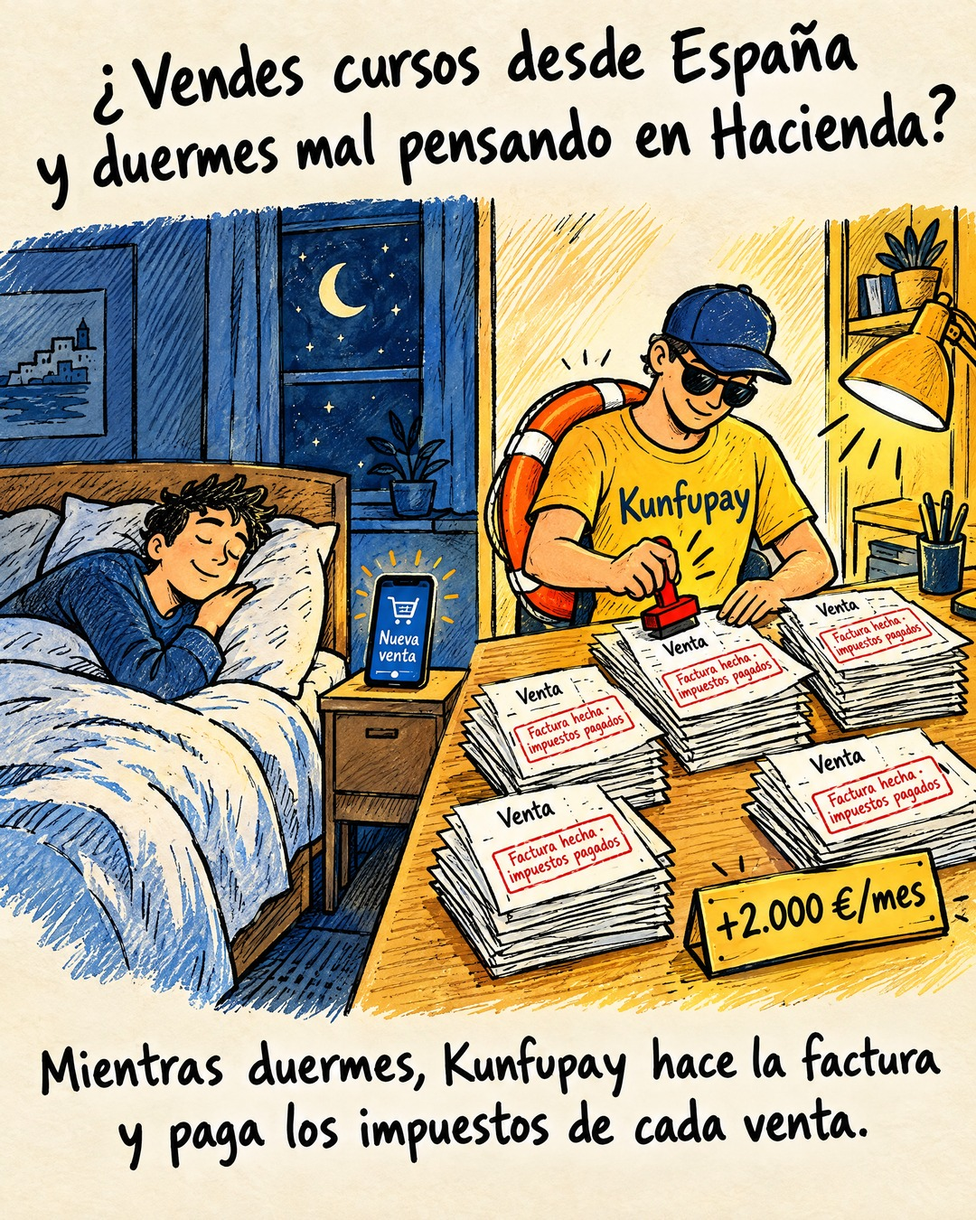
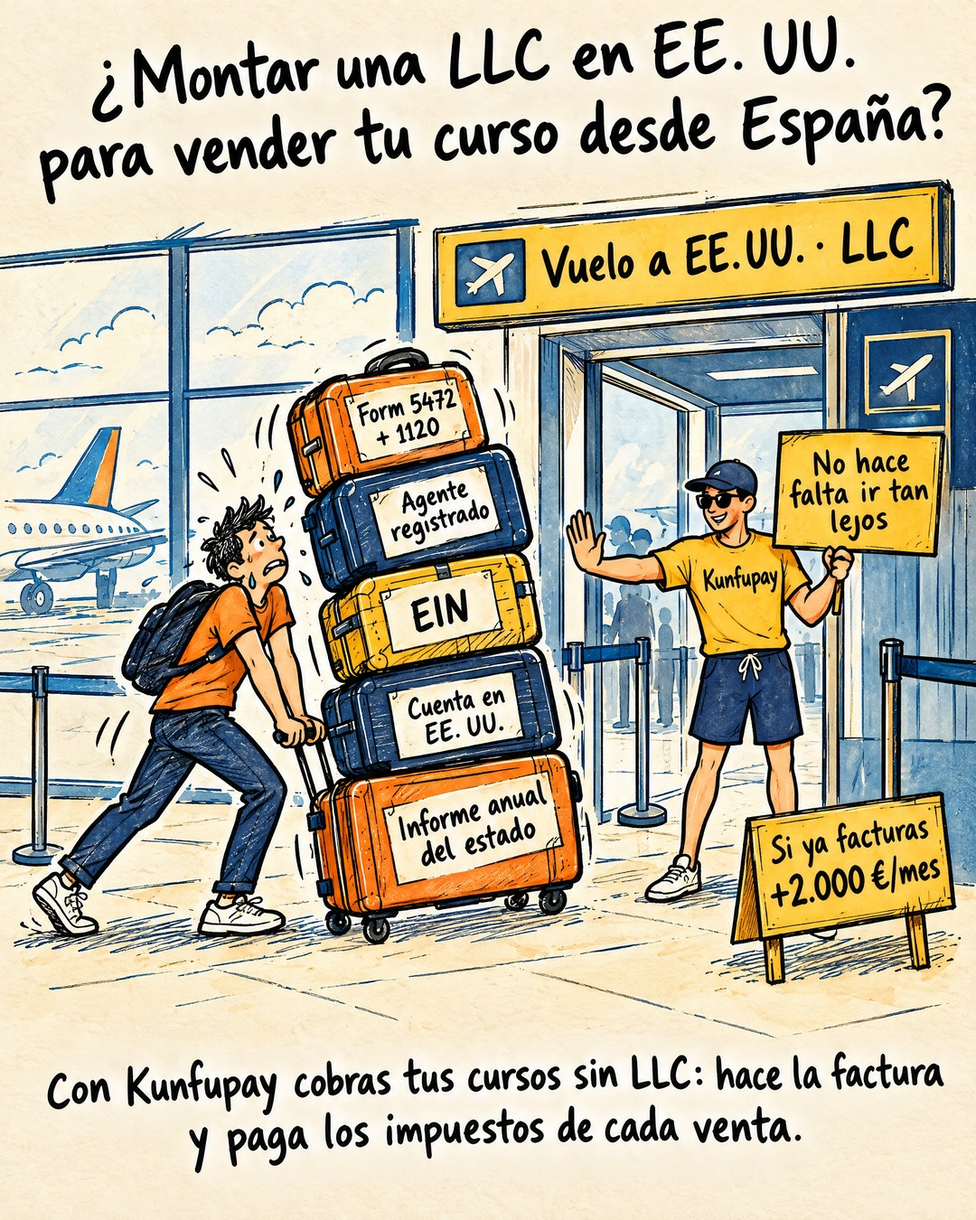
Tributaless V06: seis piezas nuevas y trading con texto completo
Se quedan la playa, la noche, la torta, el calendario de la LLC, la
pizarra de Hotmart y el reloj de arena. Se rehacen 1A (pizarra), 2A
(buzón), 3A (mochila), 4B (aeropuerto), R1 (videollamada) y R2 (pizarra
comparativa); 5A gana subtítulo y ficha. El sello en fotos se descarta.

Claude-Session: https://claude.ai/code/session_019ferXi2JGtSaS587CYiVAm

diff --git a/kunfupay/angulos/tributaless-copys.md b/kunfupay/angulos/tributaless-copys.md
@@ -1,27 +1,27 @@
-# Tributaless · anuncios V05 (13), copys y VSL
+# Tributaless · anuncios V06 (13), copys y VSL
 
 - **Fecha:** 06/10/2026
-- **Qué es:** 13 anuncios que filtran (formación online desde España, +2.000 €/mes) y en los que Kunfupay se ve haciendo algo: el socorrista de Kunfupay en las viñetas y el sello rojo «KUNFUPAY · Factura hecha · Impuestos de esta venta pagados» en las fotos. 5 títulos y 5 textos por anuncio, del más corto al más largo. Reglas 24, 25 y 26 del cerebro.
-- **Ángulo 1:** «¿Nunca hiciste una factura por cada alumno? Antes de que Hacienda venga a buscarte, cobra con Kunfupay: la hace por ti», siempre desde la próxima venta.
-- **Imágenes:** `tributaless-anuncios/` (V05; R1 sigue en V04).
+- **Qué es:** 13 anuncios que filtran (formación online desde España, +2.000 €/mes) y en los que Kunfupay se ve haciendo algo. Viñetas: el socorrista de Kunfupay. Fotos: pizarras y calendarios a mano. 5 títulos y 5 textos por anuncio. Reglas 24, 25 y 26 del cerebro.
+- **Se quedan de la V05 (elegidos por el usuario):** 1B playa, 2B noche, 3B torta, 4A calendarios LLC, 5B pizarra Hotmart, 5C reloj de arena. **5A** gana texto. **Nuevos:** 1A pizarra, 2A buzón, 3A mochila, 4B aeropuerto, R1 videollamada, R2 pizarra comparativa.
+- **Imágenes:** `tributaless-anuncios/`.
 - **Artifact:** https://claude.ai/artifact/T1n3KXjmEese8dygwsEJ2A
 
 ## 1A · ¿Vendes cursos desde España y nunca hiciste una factura por cada alumno?
 
-Foto real · sello de Kunfupay · Abridor · Ángulo: Ventas sin factura · `TRIB_ES_TOF_ABR_SINFACTURA_SELLO_1080x1350_ES_V05`
+Foto real · pizarra · Abridor · Ángulo: Ventas sin factura · `TRIB_ES_TOF_ABR_SINFACTURA_PIZARRA_1080x1350_ES_V06`
 
-**Por qué:** Habla de lo que de verdad hacen: vender sin hacer una factura por alumno. El móvil lleno de «Nueva venta» y, al lado, el recibo con el sello rojo de Kunfupay («Factura hecha · Impuestos de esta venta pagados») enseñan qué hace Kunfupay sin explicarlo. Desde la próxima venta, sin prometer nada sobre lo anterior.
+**Por qué:** La pizarra que se entiende de un vistazo: «Hasta hoy», ventas sin factura y el sobre de Hacienda con un interrogante; una flecha roja a «Desde tu próxima venta», donde Kunfupay hace la factura y paga los impuestos de cada venta. El abajo pone para quién es.
 
-**Títulos:** ¿Nunca hiciste una factura? · Antes de que vengan a buscarte · Kunfupay la hace por ti · Cada venta, con su sello · Desde tu próxima venta
+**Títulos:** ¿Nunca hiciste una factura? · Hasta hoy, sin factura · Desde tu próxima venta · Antes de que vengan a buscarte · Kunfupay la hace por ti
 
 **Textos principales:**
 
 1. ¿Vendes cursos desde España y nunca hiciste una factura por cada alumno? Antes de que Hacienda venga a buscarte, cobra con Kunfupay: la hace por ti.
 
-2. Si vendes formación online desde España y tus ventas salen sin factura, cada «Nueva venta» suma. Desde tu próxima venta, Kunfupay hace la factura y paga los impuestos de cada venta. Tú te olvidas. Si ya facturas más de 2.000 € al mes, mira el vídeo: son cinco minutos.
+2. Hasta hoy, ventas sin factura. Desde tu próxima venta, cobras con Kunfupay. Kunfupay hace la factura y paga los impuestos de cada venta. Tú te olvidas. Para quien vende formación online desde España y factura más de 2.000 € al mes.
 
-3. Te suena el móvil: «Nueva venta». Y otra. Y ninguna con su factura.
-   Si vendes cursos desde España, eso tiene arreglo desde tu próxima venta: cobra con Kunfupay. Kunfupay te representa en tus ventas: hace la factura y paga los impuestos de cada venta. Tú te olvidas.
+3. Si vendes cursos desde España, haz la cuenta de tus ventas de este año. ¿Cuántas llevan su factura?
+   Si la respuesta te da miedo, cambia cómo cobras desde la próxima. Kunfupay te representa en tus ventas: hace la factura y paga los impuestos de cada venta. Tú te olvidas.
    Si ya facturas más de 2.000 € al mes, mira el vídeo: son cinco minutos.
 
 4. Muchos infoproductores en España venden durante meses sin hacer una factura por cada alumno. No por mala fe: porque nadie se lo explicó y porque son cientos.
@@ -30,7 +30,7 @@ Foto real · sello de Kunfupay · Abridor · Ángulo: Ventas sin factura · `TRI
 
 5. Vendes cursos desde España, las ventas entran por Stripe, PayPal o tu plataforma, y la factura de cada alumno… nunca la hiciste. Cada mes que pasa son más ventas sin papel detrás.
    Con Kunfupay, desde tu próxima venta, eso deja de ser tu problema. Kunfupay te representa en tus ventas: hace la factura y paga los impuestos de cada venta. Tú te olvidas. Kunfupay es la única pasarela de España que funciona como Merchant of Record.
-   Así sale cada venta con Kunfupay: con el sello de «factura hecha» y «impuestos de esta venta pagados».
+   Kunfupay no arregla lo anterior, pero sí todo lo que venga.
    El dinero lo tienes en tu cuenta de Kunfupay, a tu nombre y con IBAN: lo gastas con tu tarjeta o lo retiras a tu banco.
    Es para quien vende formación online desde España y ya factura más de 2.000 € al mes. No es para ti si estás empezando, si facturas menos de 2.000 € al mes o si buscas dejar de pagar impuestos. Mira el vídeo: son cinco minutos.
 
@@ -62,32 +62,30 @@ Viñeta · el socorrista · Prospector · Ángulo: Ventas sin factura · `TRIB_E
    El dinero lo tienes en tu cuenta de Kunfupay, a tu nombre y con IBAN: lo gastas con tu tarjeta o lo retiras a tu banco.
    No es para ti si estás empezando, si facturas menos de 2.000 € al mes o si buscas dejar de pagar impuestos. Mira el vídeo: son cinco minutos.
 
-## 2A · Si vendes cursos desde España, esta pregunta ya la hiciste.
+## 2A · ¿Vendes cursos desde España y te da miedo abrir el buzón?
 
-Foto real · pregunta y sello · Abridor · Ángulo: Miedo a Hacienda · `TRIB_ES_TOF_ABR_HACIENDA_PREGUNTA_1080x1350_ES_V05`
+Viñeta · el buzón · Abridor · Ángulo: Miedo a Hacienda · `TRIB_ES_TOF_ABR_HACIENDA_BUZON_VINETA_1080x1350_ES_V06`
 
-**Por qué:** La pregunta que el creador escribe de verdad en un chat de IA a medianoche, y delante, la respuesta en forma de objeto: el recibo con el sello rojo de Kunfupay. El texto de la pregunta (España, 3.000 €/mes, Stripe) es el filtro.
+**Por qué:** El miedo de cada mañana: el buzón con la esquina de un sobre de Hacienda. A su lado, el socorrista de Kunfupay le da la carpeta «Factura e impuestos de cada venta: al día». Kunfupay se ve como quien te ayuda, no como Hacienda.
 
-**Títulos:** Esta pregunta ya la hiciste · ¿Y si Hacienda me da un susto? · Vendes cursos con Stripe · La pregunta de medianoche · Tú te olvidas
+**Títulos:** ¿Miedo a abrir el buzón? · La carta de Hacienda · Tus ventas, al día · Vendes cursos desde España · Tú te olvidas
 
 **Textos principales:**
 
-1. Vendes cursos desde España y ya preguntaste qué hacer para que Hacienda no te dé un susto. Kunfupay hace la factura y paga los impuestos de cada venta.
+1. ¿Vendes cursos desde España y te da miedo abrir el buzón? Con Kunfupay, cada venta lleva su factura y sus impuestos pagados.
 
-2. «Vendo cursos online desde España, ya facturo 3.000 € al mes con Stripe…» Si esa pregunta es tuya: Kunfupay hace la factura y paga los impuestos de cada venta. Tú te olvidas. Si ya facturas más de 2.000 € al mes, mira el vídeo: son cinco minutos.
+2. Cada mañana el mismo nudo: abrir el buzón y que esté la carta de Hacienda. Si vendes formación online desde España y facturas más de 2.000 € al mes: Desde tu próxima venta, Kunfupay hace la factura y paga los impuestos de cada venta. Tú te olvidas.
 
-3. Si vendes cursos desde España con Stripe o PayPal, cada venta es tuya: su factura y sus impuestos también. Por eso la pregunta aparece a medianoche.
-   Con Kunfupay es distinto: cada venta sale con el sello de «factura hecha» e «impuestos pagados». Kunfupay te representa en tus ventas: hace la factura y paga los impuestos de cada venta. Tú te olvidas.
+3. Si vendes cursos desde España y cobras con Stripe o PayPal, cada venta es tuya: su factura y sus impuestos también. Por eso el buzón da miedo.
+   Con Kunfupay es distinto. Kunfupay te representa en tus ventas: hace la factura y paga los impuestos de cada venta. Tú te olvidas.
    Si ya facturas más de 2.000 € al mes, mira el vídeo: son cinco minutos.
 
-4. Esta pregunta la hace mucha gente que vende formación online desde España: qué hacer con la factura y los impuestos de cada venta para no llevarse un susto de Hacienda.
-   Con una cuenta normal de Stripe o con PayPal, la respuesta es: todo eso es tuyo.
-   Con Kunfupay, no. Kunfupay te representa en tus ventas: hace la factura y paga los impuestos de cada venta. Tú te olvidas.
-   Es para quien vende formación online desde España y ya factura más de 2.000 € al mes. Mira el vídeo: son cinco minutos.
+4. Infoproductor en España: el miedo al buzón no viene de vender, viene de vender sin que nadie haga la factura y pague los impuestos de cada venta.
+   Con Kunfupay, eso lo hace Kunfupay. Kunfupay te representa en tus ventas: hace la factura y paga los impuestos de cada venta. Tú te olvidas.
+   Es para quien vende formación online desde España y ya factura más de 2.000 € al mes. Si facturas menos de 2.000 € al mes, todavía no es para ti. Mira el vídeo: son cinco minutos.
 
-5. Son las doce de la noche y escribes la pregunta: «Vendo cursos online desde España, ya facturo unos 3.000 € al mes con Stripe. ¿Qué hago con la factura y los impuestos de cada venta?».
-   Si te ha pasado, no es raro. Cuando cobras con Stripe o PayPal, el vendedor eres tú, y cada venta trae su factura y sus impuestos.
-   Con Kunfupay cambia. Kunfupay te representa en tus ventas: hace la factura y paga los impuestos de cada venta. Tú te olvidas. Kunfupay es la única pasarela de España que funciona como Merchant of Record.
+5. Hay infoproductores en España que bajan al portal con miedo. Venden bien, pero cada vez que abren el buzón piensan en la carta de Hacienda.
+   Con Kunfupay, desde tu próxima venta, cada una sale con su factura y sus impuestos pagados. Kunfupay te representa en tus ventas: hace la factura y paga los impuestos de cada venta. Tú te olvidas. Kunfupay es la única pasarela de España que funciona como Merchant of Record.
    El dinero lo tienes en tu cuenta de Kunfupay, a tu nombre y con IBAN: lo gastas con tu tarjeta o lo retiras a tu banco.
    Es para quien vende formación online desde España y ya factura más de 2.000 € al mes. No es para ti si estás empezando, si facturas menos de 2.000 € al mes o si buscas dejar de pagar impuestos. Mira el vídeo: son cinco minutos.
 
@@ -118,35 +116,33 @@ Viñeta · el socorrista de noche · Prospector · Ángulo: Miedo a Hacienda · 
    El dinero lo tienes en tu cuenta de Kunfupay, a tu nombre y con IBAN: lo gastas con tu tarjeta o lo retiras a tu banco.
    Es para quien vende formación online desde España y ya factura más de 2.000 € al mes. No es para ti si estás empezando, si facturas menos de 2.000 € al mes o si buscas dejar de pagar impuestos. Mira el vídeo: son cinco minutos.
 
-## 3A · ¿Sientes que en cada venta de tu curso se te va dinero en impuestos?
+## 3A · ¿Cansado de cargar con los impuestos de cada venta de tu curso?
 
-Foto real · fila de sellos · Calificador · Ángulo: Impuestos · `TRIB_ES_TOF_CAL_IMPUESTOS_SELLOS_1080x1350_ES_V05`
+Viñeta · la mochila · Calificador · Ángulo: Impuestos · `TRIB_ES_TOF_CAL_IMPUESTOS_MOCHILA_VINETA_1080x1350_ES_V06`
 
-**Por qué:** Una fila de recibos de venta, todos con el sello rojo de Kunfupay («Impuestos de esta venta pagados»). El dolor está en el titular y la solución se ve en la mesa. La ficha dice «mismo precio, más neto» con la comisión incluida.
+**Por qué:** El creador doblado bajo la mochila «Impuestos de cada venta» con la bolsa «Factura de cada alumno», y el socorrista de Kunfupay quitándosela de encima. El dolor (perder dinero y tiempo en impuestos) y la solución en una imagen; abajo, mismo precio y más neto con la comisión dicha.
 
-**Títulos:** ¿Se te va en impuestos? · Cada venta, con su sello · Mismo precio, más neto · Cansado de perder en impuestos · Desde 2.000 € al mes
+**Títulos:** Quítate la mochila · ¿Cansado de cargar con todo? · Mismo precio, más neto · Kunfupay la carga por ti · Desde 2.000 € al mes
 
 **Textos principales:**
 
-1. ¿Vendes cursos desde España y sientes que en cada venta se te va dinero en impuestos? Kunfupay paga los impuestos de cada venta.
+1. ¿Vendes cursos desde España y estás cansado de cargar con los impuestos de cada venta? Kunfupay te quita la mochila.
 
-2. Si vendes formación online desde España y estás cansado de perder dinero en impuestos, mira la fila: cada venta, con el sello de Kunfupay. Kunfupay hace la factura y paga los impuestos de cada venta. Tú te olvidas. Y con el mismo precio para tu alumno, a ti te queda más por venta, incluso con la comisión de Kunfupay.
+2. La factura de cada alumno y los impuestos de cada venta pesan más en cada lanzamiento. Si vendes formación online desde España: Kunfupay hace la factura y paga los impuestos de cada venta. Tú te olvidas. Y con el mismo precio para tu alumno, a ti te queda más por venta, incluso con la comisión de Kunfupay.
 
 3. Lanzas, vendes y, cuando haces cuentas, sientes que los impuestos se comen tu lanzamiento.
    Si vendes cursos desde España, hay otra forma de cobrar. Kunfupay te representa en tus ventas: hace la factura y paga los impuestos de cada venta. Tú te olvidas.
    Y con el mismo precio para tu alumno, a ti te queda más por venta, incluso con la comisión de Kunfupay.
    Si ya facturas más de 2.000 € al mes, mira el vídeo: son cinco minutos.
 
-4. Infoproductor en España: si sientes que en cada venta los impuestos se llevan la mejor parte, esto es para ti.
-   Kunfupay te representa en tus ventas: hace la factura y paga los impuestos de cada venta. Tú te olvidas.
-   Así sale cada venta con Kunfupay: con el sello de «factura hecha» y «impuestos de esta venta pagados».
+4. Infoproductor en España: si en cada lanzamiento cargas con la factura de cada alumno y los impuestos de cada venta, esto es para ti.
+   Con Kunfupay, esa mochila la lleva Kunfupay. Kunfupay te representa en tus ventas: hace la factura y paga los impuestos de cada venta. Tú te olvidas.
    Y con el mismo precio para tu alumno, a ti te queda más por venta, incluso con la comisión de Kunfupay.
    Es para quien vende formación online desde España y ya factura más de 2.000 € al mes. Si facturas menos de 2.000 € al mes, todavía no es para ti. Mira el vídeo: son cinco minutos.
 
-5. Mira tus ventas de un mes. Si cada una te recuerda lo que se lleva en impuestos, no eres el único.
+5. Cada venta de tu curso trae dos cosas: una alegría y una carga. La factura de ese alumno y los impuestos de esa venta. Y en un lanzamiento, la mochila pesa cientos de veces.
    Es para quien vende formación online desde España y ya factura más de 2.000 € al mes.
    Kunfupay te representa en tus ventas: hace la factura y paga los impuestos de cada venta. Tú te olvidas. Kunfupay es la única pasarela de España que funciona como Merchant of Record.
-   Así sale cada venta con Kunfupay: con el sello de «factura hecha» y «impuestos de esta venta pagados».
    Y con el mismo precio para tu alumno, a ti te queda más por venta, incluso con la comisión de Kunfupay.
    El dinero lo tienes en tu cuenta de Kunfupay, a tu nombre y con IBAN: lo gastas con tu tarjeta o lo retiras a tu banco.
    No es para ti si estás empezando, si facturas menos de 2.000 € al mes o si buscas dejar de pagar impuestos. Mira el vídeo: son cinco minutos.
@@ -210,38 +206,38 @@ Foto real · dos calendarios · Abridor · Ángulo: LLC · `TRIB_ES_TOF_ABR_LLC_
    El dinero lo tienes en tu cuenta de Kunfupay, a tu nombre y con IBAN: lo gastas con tu tarjeta o lo retiras a tu banco.
    Es para quien vende formación online desde España y ya factura más de 2.000 € al mes. No es para ti si estás empezando, si facturas menos de 2.000 € al mes o si buscas dejar de pagar impuestos. Mira el vídeo antes de montar nada.
 
-## 4B · Lo que te piden en EE. UU. para vender tu curso desde España.
+## 4B · ¿Montar una LLC en EE. UU. para vender tu curso desde España?
 
-Viñeta · la escalera y el socorrista · Prospector · Ángulo: LLC · `TRIB_ES_TOF_PRO_LLC_ESCALERA_VINETA_1080x1350_ES_V05`
+Viñeta · el aeropuerto · Prospector · Ángulo: LLC · `TRIB_ES_TOF_PRO_LLC_AEROPUERTO_VINETA_1080x1350_ES_V06`
 
-**Por qué:** La escalera infinita de trámites de la LLC y, al lado, el socorrista de Kunfupay señalando el camino llano «Cobrar tus cursos sin LLC»: «Yo hago la factura y pago los impuestos de cada venta». La LLC, imposible; Kunfupay, claro.
+**Por qué:** El creador arrastrando una torre de maletas de trámites de la LLC (5472 + 1120, agente registrado, EIN, cuenta en EE. UU., informe anual) hacia el «Vuelo a EE. UU. · LLC», y el socorrista de Kunfupay en la puerta: «No hace falta ir tan lejos». La LLC, imposible; Kunfupay, la salida.
 
-**Títulos:** Lo que te piden en EE. UU. · La escalera de la LLC · O la puerta de al lado · Tu curso, sin LLC · Antes de montar nada
+**Títulos:** No hace falta ir tan lejos · ¿Una LLC para tu curso? · Tu equipaje para la LLC · Cobra sin LLC · Antes de montar nada
 
 **Textos principales:**
 
-1. Lo que te piden en EE. UU. para vender tu curso desde España: una escalera sin fin. Con Kunfupay cobras sin montar una LLC.
+1. ¿Montar una LLC en EE. UU. para vender tu curso desde España? No hace falta ir tan lejos: con Kunfupay cobras sin LLC.
 
-2. Elegir estado, agente registrado, EIN, cuenta en EE. UU., el 5472 con el 1120 cada año… Con Kunfupay cobras tus cursos sin subir esa escalera. Si ya facturas más de 2.000 € al mes, mira el vídeo: son cinco minutos.
+2. 5472 con 1120, agente registrado, EIN, cuenta en EE. UU., informe anual. Mucho equipaje para vender un curso. Con Kunfupay cobras sin LLC. Si ya facturas más de 2.000 € al mes, mira el vídeo: son cinco minutos.
 
-3. Si vendes formación online desde España, la LLC se parece a esta escalera: cada peldaño, un trámite en EE. UU., y no se ve el final.
-   Con Kunfupay cobras tus cursos en todo el mundo sin montar una LLC. Kunfupay te representa en tus ventas: hace la factura y paga los impuestos de cada venta. Tú te olvidas.
+3. Si vendes formación online desde España, alguien ya te habrá dicho que montes una LLC. Lo que no te cuentan es el equipaje: trámites en EE. UU. todos los años.
+   Con Kunfupay cobras en todo el mundo sin LLC. Kunfupay te representa en tus ventas: hace la factura y paga los impuestos de cada venta. Tú te olvidas.
    Si ya facturas más de 2.000 € al mes, mira el vídeo: son cinco minutos.
 
-4. Esto es lo que te piden en Estados Unidos para vender un curso con una LLC: elegir estado, agente registrado, EIN, una cuenta allí, el formulario 5472 con el 1120 cada año y el informe anual del estado. Y si no presentas el 5472, 25.000 $ de multa (IRS).
+4. Esto es lo que te piden en Estados Unidos para vender un curso con una LLC: agente registrado, EIN, una cuenta allí, el formulario 5472 con el 1120 cada año y el informe anual del estado. Y si no presentas el 5472, 25.000 $ de multa (IRS).
    Para cobrar tus cursos en todo el mundo no necesitas nada de eso. Kunfupay te representa en tus ventas: hace la factura y paga los impuestos de cada venta. Tú te olvidas.
    Es para quien vende formación online desde España y ya factura más de 2.000 € al mes. Mira el vídeo antes de montar nada.
 
-5. Cuando vendes cursos desde España y empiezas a facturar en serio, alguien te enseña la escalera: una LLC en EE. UU. Elegir estado, agente registrado, EIN, cuenta allí, el 5472 con el 1120 cada año, el informe anual. Y 25.000 $ de multa si te olvidas del 5472 (IRS).
-   Al lado hay una puerta a ras de suelo. Kunfupay te representa en tus ventas: hace la factura y paga los impuestos de cada venta. Tú te olvidas. Kunfupay es la única pasarela de España que funciona como Merchant of Record.
+5. Cuando vendes cursos desde España y empiezas a facturar en serio, alguien te enseña el billete: una LLC en EE. UU. Con su equipaje: agente registrado, EIN, cuenta allí, el 5472 con el 1120 cada año, el informe anual. Y 25.000 $ de multa si te olvidas del 5472 (IRS).
+   No hace falta ir tan lejos. Kunfupay te representa en tus ventas: hace la factura y paga los impuestos de cada venta. Tú te olvidas. Kunfupay es la única pasarela de España que funciona como Merchant of Record.
    El dinero lo tienes en tu cuenta de Kunfupay, a tu nombre y con IBAN: lo gastas con tu tarjeta o lo retiras a tu banco.
    Es para quien vende formación online desde España y ya factura más de 2.000 € al mes. No es para ti si estás empezando, si facturas menos de 2.000 € al mes o si buscas dejar de pagar impuestos. Mira el vídeo antes de montar nada.
 
 ## 5A · ¿Tienes 50.000 € de tu comunidad de trading parados en Binance por miedo a sacarlos?
 
-Foto real · saldo parado · Abridor · Ángulo: Retirar de a poco · `TRIB_ES_TOF_ABR_DEAPOCO_BINANCE_1080x1350_ES_V05`
+Foto real · saldo parado · Abridor · Ángulo: Retirar de a poco · `TRIB_ES_TOF_ABR_DEAPOCO_BINANCE_1080x1350_ES_V06`
 
-**Por qué:** Directo: el saldo de 50.000 € de ventas de la comunidad, el pósit «No lo saco por miedo» y la hoja «Próximas ventas» con el sello de Kunfupay. Ventas, no ahorros, y sin prometer nada sobre lo ya acumulado.
+**Por qué:** Directo y completo: el titular de los 50.000 € parados en Binance por miedo, un subtítulo que dice quién eres y que hay otra forma de cobrar, y la ficha con lo que hace Kunfupay, «a tu nombre y con IBAN» y «Ventas, no ahorros · +2.000 €/mes».
 
 **Títulos:** 50.000 € parados por miedo · ¿No lo sacas por miedo? · Tu comunidad paga en Binance · Tus próximas ventas, en regla · Ventas, no ahorros
 
@@ -319,24 +315,24 @@ Viñeta · reloj de arena y socorrista · Prospector · Ángulo: Retirar de a po
    El dinero lo tienes en tu cuenta de Kunfupay, a tu nombre y con IBAN: lo gastas con tu tarjeta o lo retiras a tu banco.
    Es para quien cobra ventas: cursos, mentorías o comunidades de trading. Si son tus ahorros, esto no es para ti. Es para quien vende formación online desde España y ya factura más de 2.000 € al mes. No es para ti si estás empezando, si facturas menos de 2.000 € al mes o si buscas dejar de pagar impuestos. Mira el vídeo: son cinco minutos.
 
-## R1 · ¿Vendes cursos desde España? 20 minutos para ver si Kunfupay encaja.
+## R1 · ¿Vendes cursos desde España y facturas +2.000 €/mes? En 20 minutos vemos si Kunfupay encaja.
 
-Foto real · hoja de pasos · Calificador · Ángulo: Diagnóstico · `TRIB_ES_RET_CAL_DIAG_PASOS_1080x1350_ES_V04`
+Viñeta · videollamada · Calificador · Ángulo: Diagnóstico · `TRIB_ES_RET_CAL_DIAG_LLAMADA_VINETA_1080x1350_ES_V06`
 
-**Por qué:** Una hoja que explica qué es el diagnóstico y qué pasa en él: seis preguntas, revisamos tu caso (formación online desde España, desde 2.000 €/mes) y en 20 minutos te enseñamos cómo Kunfupay hace la factura y paga los impuestos de cada venta. El pósit deja fuera a quien factura menos.
+**Por qué:** El diagnóstico dibujado como una videollamada de 20 minutos con el socorrista de Kunfupay, que explica en su pizarra «Cómo cobras hoy» frente a «Con Kunfupay». El titular filtra y el pie dice el paso: seis preguntas y eliges hora.
 
 **Títulos:** 20 minutos para ver si encaja · Tu diagnóstico de cobros · Seis preguntas y eliges hora · Desde 2.000 € al mes · Tributaless, de Kunfupay
 
 **Textos principales:**
 
-1. ¿Vendes cursos desde España? En 20 minutos vemos si Kunfupay encaja en tu negocio. Para quien factura desde 2.000 € al mes.
+1. ¿Vendes cursos desde España y facturas más de 2.000 € al mes? En 20 minutos vemos si Kunfupay encaja en tu negocio.
 
-2. Ya viste el vídeo. Si vendes formación online desde España y facturas más de 2.000 € al mes, en 20 minutos vemos tu caso y cómo Kunfupay hace la factura y paga los impuestos de cada venta.
+2. Ya viste el vídeo. Diagnóstico de cobros gratis: 20 minutos para ver cómo cobras hoy y cómo sería con Kunfupay, que hace la factura y paga los impuestos de cada venta.
 
 3. Así funciona el diagnóstico de cobros de Tributaless, de Kunfupay:
    1. Respondes seis preguntas: dónde vives, qué vendes, con qué cobras y cuánto facturas.
-   2. Revisamos tu caso.
-   3. En 20 minutos te enseñamos cómo funciona con tu negocio.
+   2. Eliges hora.
+   3. En 20 minutos vemos cómo cobras hoy y qué cambia con Kunfupay.
    Si facturas menos de 2.000 € al mes, todavía no es para ti.
 
 4. Ya viste cómo funciona: Kunfupay te representa en tus ventas: hace la factura y paga los impuestos de cada venta. Tú te olvidas.
@@ -344,34 +340,36 @@ Foto real · hoja de pasos · Calificador · Ángulo: Diagnóstico · `TRIB_ES_R
    Es para quien vende formación online desde España y ya factura más de 2.000 € al mes. Si facturas menos de 2.000 € al mes, todavía no es para ti.
 
 5. Viste el vídeo y sabes cómo funciona. Kunfupay te representa en tus ventas: hace la factura y paga los impuestos de cada venta. Tú te olvidas. Kunfupay es la única pasarela de España que funciona como Merchant of Record.
-   Ahora toca verlo con tu caso. Respondes seis preguntas sobre dónde vives, qué vendes, con qué cobras hoy y cuánto facturas, y eliges hora. En 20 minutos vemos qué cambia en tu negocio.
+   Ahora toca verlo con tu caso. Respondes seis preguntas sobre dónde vives, qué vendes, con qué cobras hoy y cuánto facturas, y eliges hora. En 20 minutos ponemos en una pizarra cómo cobras hoy y cómo sería con Kunfupay.
    El dinero lo tienes en tu cuenta de Kunfupay, a tu nombre y con IBAN: lo gastas con tu tarjeta o lo retiras a tu banco.
    Es para quien vende formación online desde España y ya factura más de 2.000 € al mes. No es para ti si estás empezando, si facturas menos de 2.000 € al mes o si buscas dejar de pagar impuestos.
 
-## R2 · Ya viste cómo funciona: así sale cada venta de tu curso.
+## R2 · Ya viste cómo funciona. Esto es lo que cambia.
 
-Foto real · recibos sellados · Closer · Ángulo: Diagnóstico · `TRIB_ES_RET_CLO_SELLOS_1080x1350_ES_V05`
+Foto real · pizarra comparativa · Closer · Ángulo: Diagnóstico · `TRIB_ES_RET_CLO_CAMBIA_PIZARRA_1080x1350_ES_V06`
 
-**Por qué:** Para quien ya vio la VSL: el abanico de recibos, todos con el sello rojo de Kunfupay. Enseña el después de un vistazo y la tira de abajo dice para quién es y cuál es el paso (seis preguntas y eliges hora).
+**Por qué:** Una pizarra con dos columnas: «Hoy (Stripe o PayPal)», donde la factura, los impuestos de cada venta y el miedo a Hacienda son tuyos, frente a «Con Kunfupay», donde la factura y los impuestos son de Kunfupay y tú vendes y grabas. Abajo, sin LLC, para quién es y el paso.
 
-**Títulos:** Así sale cada venta · Cada venta, con su sello · Factura e impuestos, hechos · Ya viste cómo funciona · Seis preguntas y eliges hora
+**Títulos:** Esto es lo que cambia · Hoy tú, mañana Kunfupay · Tú: vender y grabar · Sin LLC y sin cambiar nada · Seis preguntas y eliges hora
 
 **Textos principales:**
 
-1. Ya viste cómo funciona: así sale cada venta de tu curso con Kunfupay. Factura hecha e impuestos de esa venta pagados.
+1. Ya viste cómo funciona. Lo que cambia: la factura y los impuestos de cada venta pasan de ti a Kunfupay. Tú vendes y grabas.
 
-2. Cada venta, con su sello: factura hecha e impuestos pagados. Kunfupay hace la factura y paga los impuestos de cada venta. Tú te olvidas. Para quien vende cursos desde España y factura más de 2.000 € al mes.
+2. Hoy, con Stripe o PayPal: la factura de cada venta, tuya; los impuestos de cada venta, tuyos. Con Kunfupay, de Kunfupay. Para quien vende cursos desde España y factura más de 2.000 € al mes.
 
-3. Viste el vídeo. Esto es lo que cambia: cada venta de tu curso sale con su factura y sus impuestos pagados, sin que tú hagas nada.
-   Kunfupay te representa en tus ventas: hace la factura y paga los impuestos de cada venta. Tú te olvidas.
+3. Viste el vídeo. Ahora ponlo en dos columnas.
+   Hoy: la factura, los impuestos de cada venta y el miedo a Hacienda son tuyos.
+   Con Kunfupay: Kunfupay te representa en tus ventas: hace la factura y paga los impuestos de cada venta. Tú te olvidas.
    Es para quien vende formación online desde España y ya factura más de 2.000 € al mes. Seis preguntas y eliges hora.
 
-4. Ya viste cómo funciona. Ahora míralo en tu mesa: cada recibo de venta, con el sello de Kunfupay.
-   No cambias de plataforma ni montas una LLC. Solo cambia cómo cobras. Kunfupay te representa en tus ventas: hace la factura y paga los impuestos de cada venta. Tú te olvidas.
+4. Ya viste cómo funciona. Esto es lo que cambia, sin montar una LLC y sin cambiar de plataforma: la factura de cada venta y los impuestos de cada venta dejan de ser tuyos.
+   Kunfupay te representa en tus ventas: hace la factura y paga los impuestos de cada venta. Tú te olvidas.
    Es para quien vende formación online desde España y ya factura más de 2.000 € al mes. Si facturas menos de 2.000 € al mes, todavía no es para ti. Seis preguntas y eliges hora.
 
-5. Viste el vídeo. Esto es lo que cambia en tu día a día si vendes formación online desde España: cada venta sale con su factura hecha y sus impuestos pagados por Kunfupay, sin una factura por alumno a tu cargo.
-   Sin cambiar de plataforma y sin montar una LLC. Kunfupay te representa en tus ventas: hace la factura y paga los impuestos de cada venta. Tú te olvidas. Kunfupay es la única pasarela de España que funciona como Merchant of Record.
+5. Viste el vídeo. Esto es lo que cambia en tu día a día si vendes formación online desde España.
+   Hoy, cobrando con Stripe o PayPal, la factura de cada venta y sus impuestos son tuyos, y el miedo a Hacienda también.
+   Con Kunfupay, sin cambiar de plataforma y sin montar una LLC: Kunfupay te representa en tus ventas: hace la factura y paga los impuestos de cada venta. Tú te olvidas. Kunfupay es la única pasarela de España que funciona como Merchant of Record.
    El dinero lo tienes en tu cuenta de Kunfupay, a tu nombre y con IBAN: lo gastas con tu tarjeta o lo retiras a tu banco.
    Es para quien vende formación online desde España y ya factura más de 2.000 € al mes. No es para ti si estás empezando, si facturas menos de 2.000 € al mes o si buscas dejar de pagar impuestos. Mira si tu negocio encaja: son seis preguntas y eliges hora.
 

diff --git a/.claude/skills/cerebro-kunfupay/SKILL.md b/.claude/skills/cerebro-kunfupay/SKILL.md
@@ -219,7 +219,7 @@ Si el documento tiene más de 60 días, avisa de que conviene refrescar la inves
     - El umbral de facturación va en un objeto de la propia escena (pósit, cartel, pegatina, ficha con pinza, portapapeles, pizarra, formulario). Cada pieza elige el suyo.
     - Prohibido: la misma caja o tarjeta de «Es para ti si:» pegada encima de todas las piezas, y el texto suelto sin jerarquía.
     - **Contexto siempre, también en retargeting** (06/10/2026: «le falta contexto, está bien que es para leads con mayor nivel de conciencia, pero igual debe dar contexto»). Cada pieza dice por sí sola qué es la marca, qué hace por ti, para quién es y que se cobra con Kunfupay. Una metáfora que solo entiende quien ya conoce la marca (relevo, puerta cerrada) no vale. Es la regla 18 aplicada a estáticos.
-    - **Kunfupay se ve haciendo algo** (06/10/2026: «el único que realmente se entiende es el de la playa que le tira el salvavidas»). Viñetas: el socorrista de Kunfupay (gorra azul, gafas, camiseta amarilla con «Kunfupay», salvavidas naranja) lanza el salvavidas, sella las ventas o paga en la ventanilla. Fotos: el sello rojo «KUNFUPAY · Factura hecha · Impuestos de esta venta pagados» sobre cada venta. Nunca un pósit, una puerta o un personaje que pueda parecer de Hacienda.
+    - **Kunfupay se ve haciendo algo** (06/10/2026: «el único que realmente se entiende es el de la playa que le tira el salvavidas»). Viñetas: el socorrista de Kunfupay (gorra azul, gafas, camiseta amarilla con «Kunfupay», salvavidas naranja) lanza el salvavidas, sella las ventas o paga en la ventanilla. Fotos: una pizarra o un calendario dibujados a mano con el antes y el después (el sello sobre recibos se probó el 06/10 y no funcionó). Nunca un pósit, una puerta o un personaje que pueda parecer de Hacienda.
     - **El dolor de las facturas es no haberlas hecho**, no hacer 300: «¿Nunca hiciste una factura por cada alumno? Antes de que Hacienda venga a buscarte, cobra con Kunfupay: la hace por ti», siempre «desde tu próxima venta».
     - Nada en la imagen contradice el filtro o la verdad (precios ridículos para el perfil, «Impuestos 0,00»).
     - En los textos: el texto 1 ya nombra al comprador; el umbral desde el texto 2; el más largo cierra con la exclusión completa.

diff --git a/kunfupay/aprendizajes.md b/kunfupay/aprendizajes.md
@@ -60,3 +60,12 @@
   - Nada que pueda confundir a Kunfupay con Hacienda (uniformes, ventanillas, delantales de cobrador).
   - Ángulo de facturas: «¿Nunca hiciste una factura por cada alumno? Antes de que Hacienda venga a buscarte, cobra con Kunfupay: la hace por ti.» Siempre «desde tu próxima venta»: Kunfupay no arregla lo anterior y no se promete.
   - Los recibos de las fotos no llevan cifras ni líneas de IVA: la IA las inventa y chocan con la regla 21 y con T-10.
+
+## 06/10/2026 · Qué funcionó y qué no en Tributaless V05
+
+- **Corrección del usuario:** «deja el anuncio del reloj de arena, el que sella facturas mientras el otro duerme, el del salvavidas, el de la torta, el de la pizarra, el del calendario de LLC; el del trading le falta copy, tiene un título y listo; lo demás cámbialos completamente que son nefastos».
+- **Funcionó:** las viñetas con el socorrista de Kunfupay haciendo algo (salvavidas, sellar de noche, pagar en la ventanilla, ofrecer el salvavidas junto al reloj de arena) y las fotos de pizarra o calendario dibujados a mano (Hotmart, LLC).
+- **No funcionó:** el sello rojo sobre recibos en foto (1A, 3A, R2), la pregunta en el chat de IA (2A), la escalera (4B) y la hoja de pasos (R1).
+- **Regla:**
+  - En fotos, Kunfupay se explica con una pizarra o un calendario a mano que enseñe el antes y el después, no con un sello.
+  - Una pieza con solo un titular está incompleta: además del titular, un subtítulo que diga quién eres y qué cambia, y un objeto en la escena con lo que hace Kunfupay y el filtro (caso de 5A, el trading).

diff --git a/kunfupay/angulos/tributaless.md b/kunfupay/angulos/tributaless.md
@@ -8,7 +8,7 @@
 
 ---
 
-> **06/10/2026 · V05.** Kunfupay se representa como el socorrista (viñetas) y el sello rojo sobre cada venta (fotos); el ángulo 1 pasa a «nunca hiciste una factura por cada alumno». **V04:** Los 13 anuncios se rehicieron desde cero con las correcciones de Ignia (regla 26): la frase que filtra es el concepto, cada pieza da contexto por sí sola y nada de cajas pegadas. Las piezas, copys y VSL vigentes están en `tributaless-copys.md` y en https://claude.ai/artifact/T1n3KXjmEese8dygwsEJ2A. El plan del §4 conserva la estrategia; sus imágenes y textos A/B quedan sustituidos.
+> **06/10/2026 · V06.** El usuario se quedó con 1B, 2B, 3B, 4A, 5B y 5C; 5A ganó texto; el resto se rehízo (pizarra, buzón, mochila, aeropuerto, videollamada, pizarra comparativa). El sello en fotos se descartó. **V05:** Kunfupay se representa como el socorrista (viñetas) y el sello rojo sobre cada venta (fotos); el ángulo 1 pasa a «nunca hiciste una factura por cada alumno». **V04:** Los 13 anuncios se rehicieron desde cero con las correcciones de Ignia (regla 26): la frase que filtra es el concepto, cada pieza da contexto por sí sola y nada de cajas pegadas. Las piezas, copys y VSL vigentes están en `tributaless-copys.md` y en https://claude.ai/artifact/T1n3KXjmEese8dygwsEJ2A. El plan del §4 conserva la estrategia; sus imágenes y textos A/B quedan sustituidos.
 
 ## 0. Decisión que cambia el planteamiento
 
